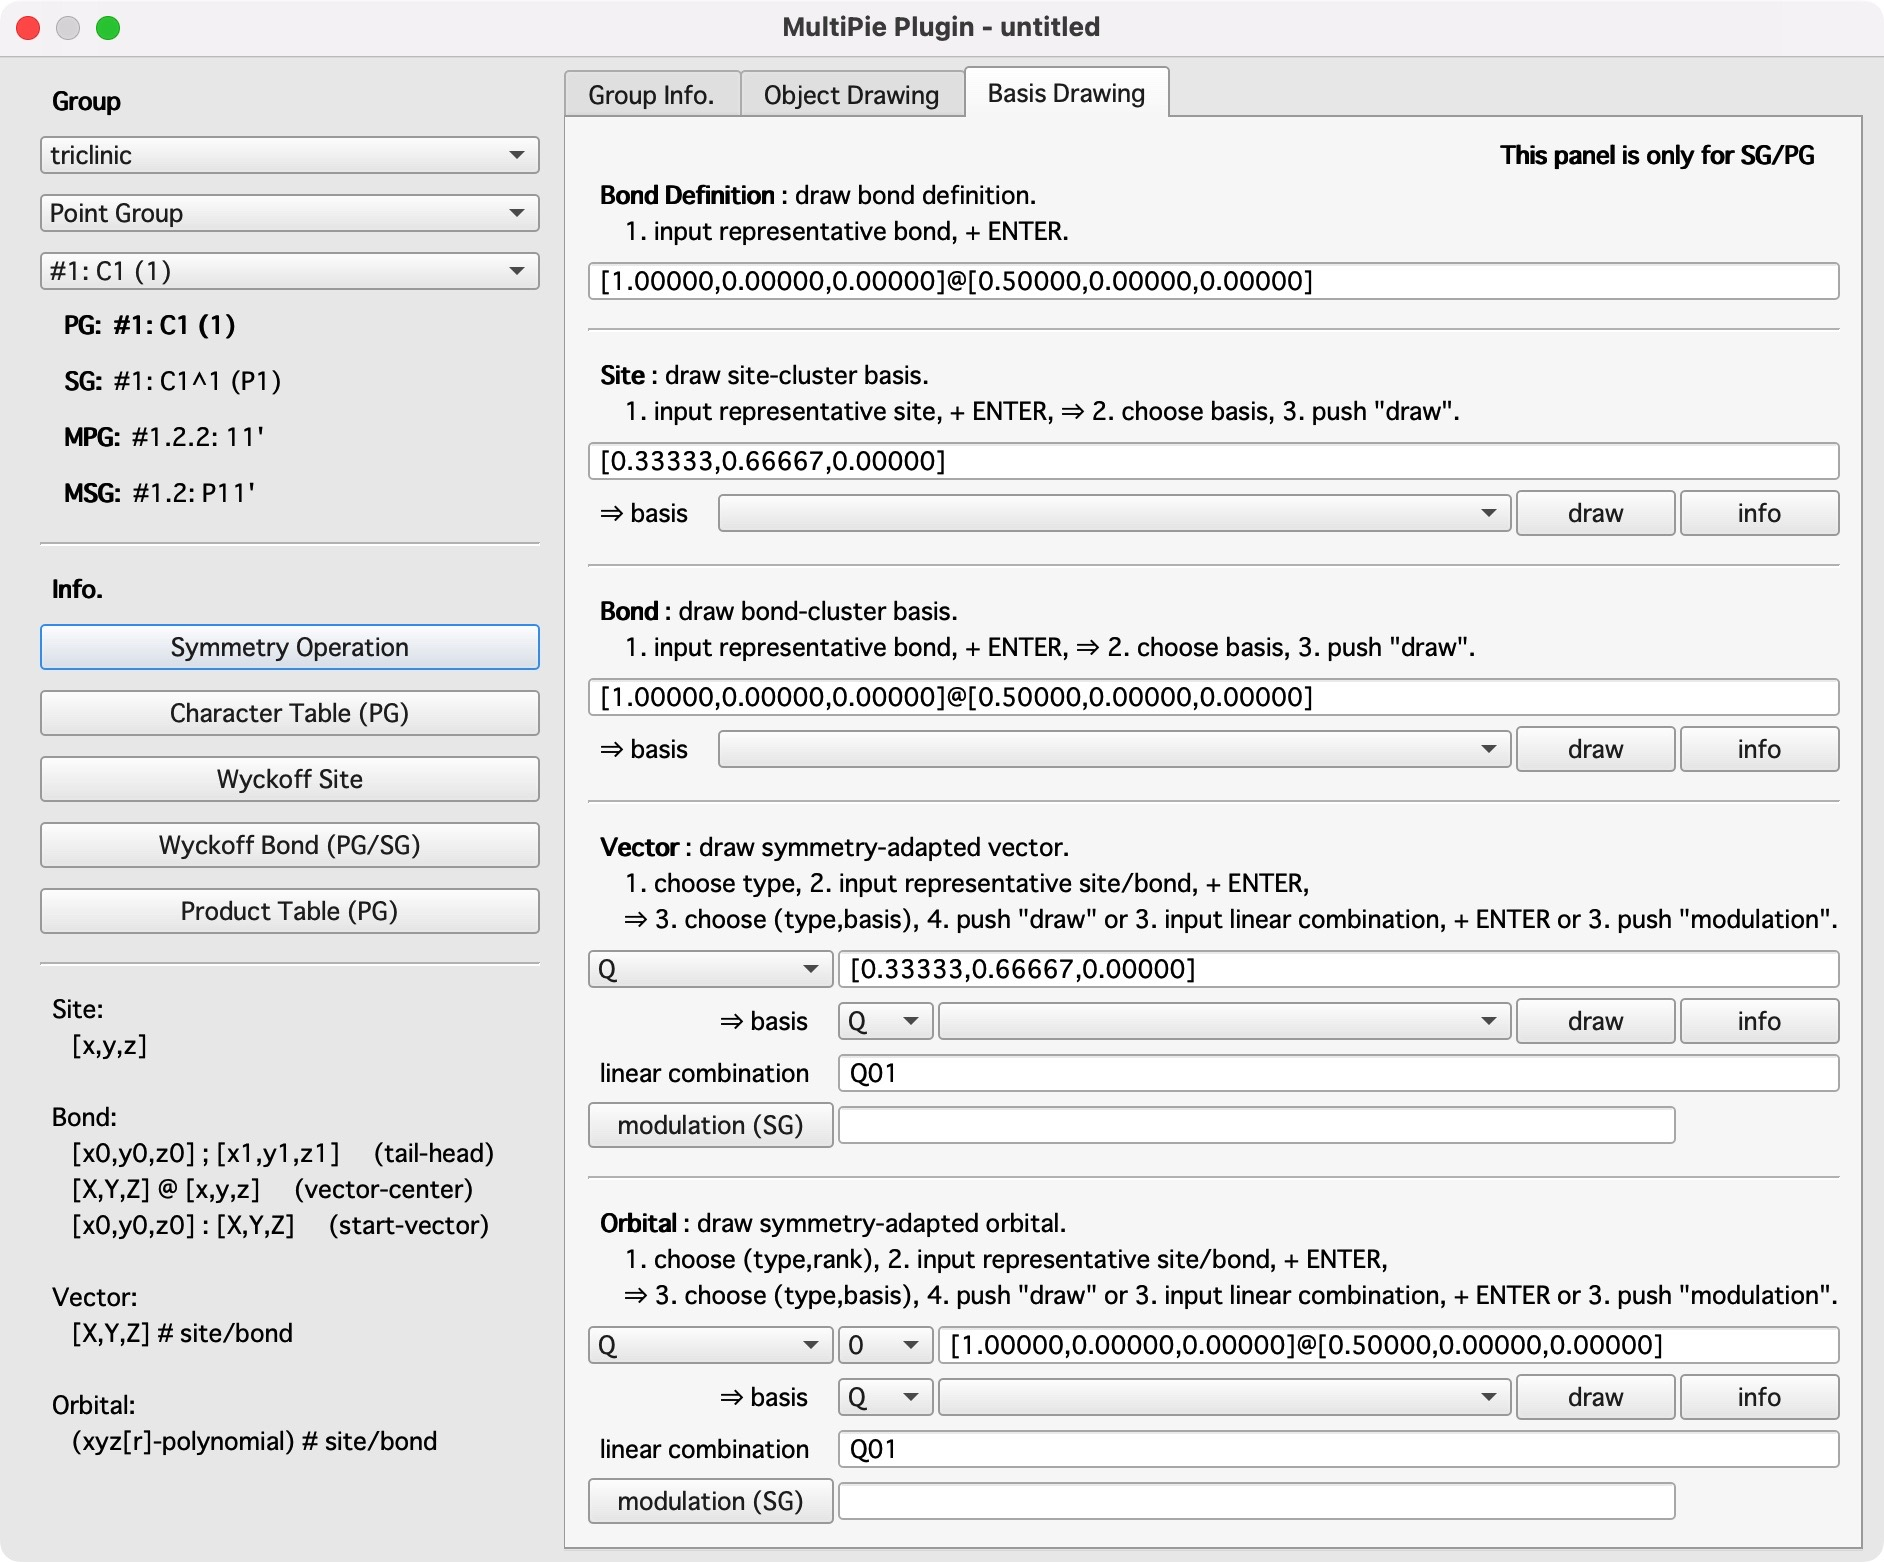
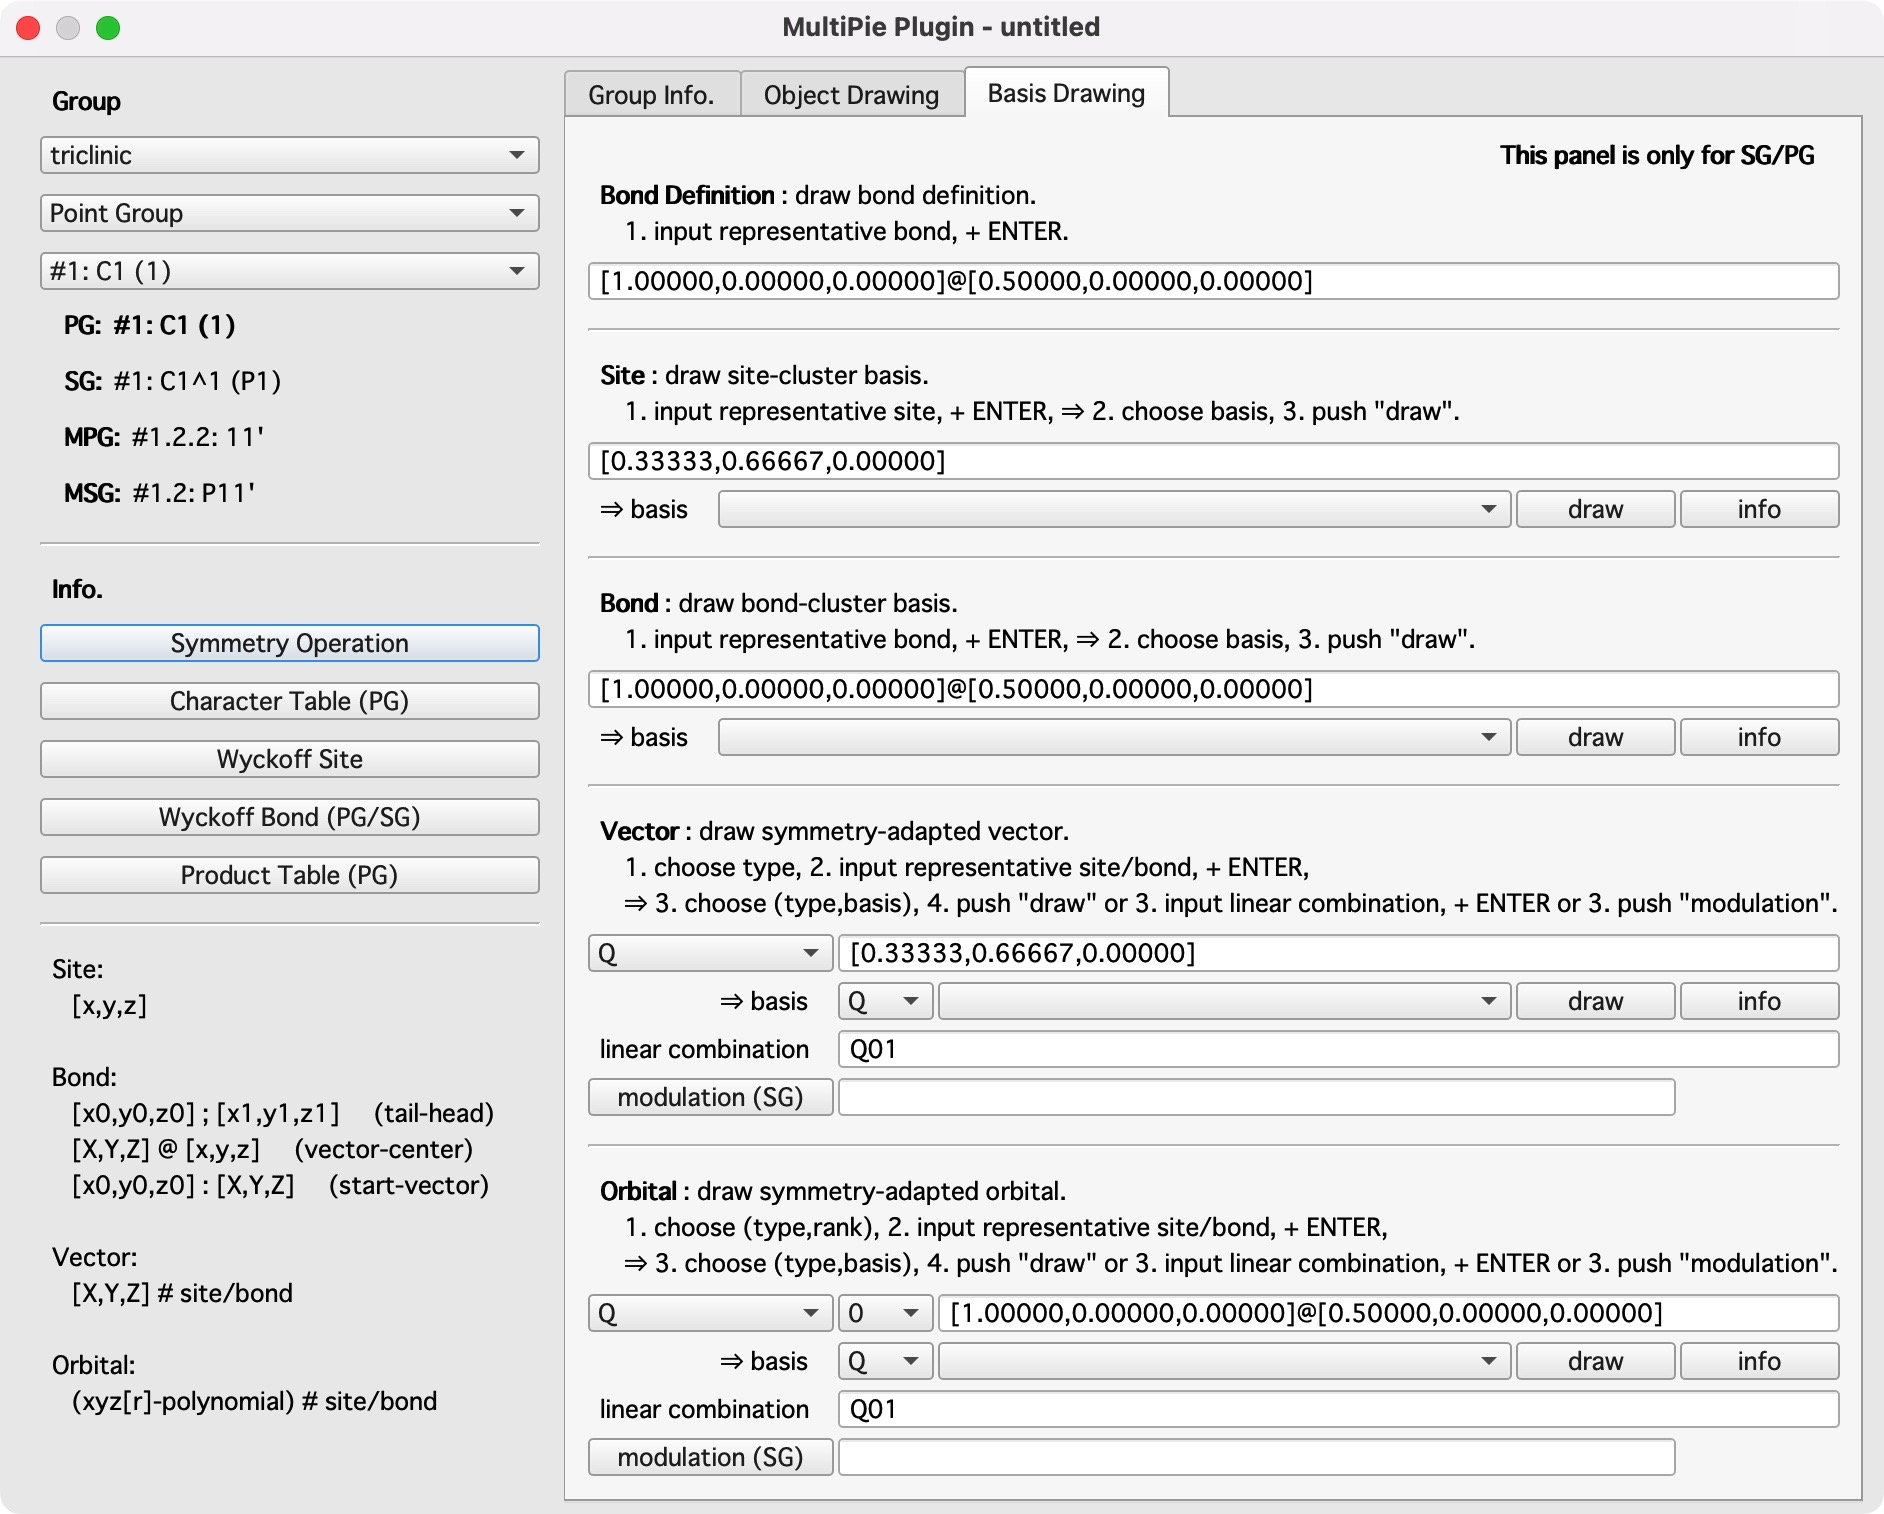
version up

diff --git a/qtdraw/multipie/tab_object.py b/qtdraw/multipie/tab_object.py
@@ -54,7 +54,7 @@ class TabObject(QWidget):
         )
         self.combo_vector_type = Combo(parent, ["Q", "G", "T", "M"])
         self.edit_vector = LineEdit(parent, text="", validator=("vector_site_bond", {"use_var": False}))
-        self.check_vector_av = Check(parent, text="av.")
+        self.check_vector_av = Check(parent, text="average")
         self.check_vector_cart = Check(parent, text="cartesian")
 
         panel3 = QWidget(parent)
@@ -72,7 +72,7 @@ class TabObject(QWidget):
         )
         self.combo_orbital_type = Combo(parent, ["Q", "G", "T", "M"])
         self.edit_orbital = LineEdit(parent, text="", validator=("orbital_site_bond", {"use_var": False}))
-        self.check_orbital_av = Check(parent, text="av.")
+        self.check_orbital_av = Check(parent, text="average")
 
         panel4 = QWidget(parent)
         layout4 = Layout(panel4)

diff --git a/qtdraw/widget/custom_widget.py b/qtdraw/widget/custom_widget.py
@@ -283,6 +283,9 @@ class Button(QPushButton):
         font.setBold(bold)
         self.setFont(font)
 
+        total_height = size * 1.6
+        self.setFixedHeight(total_height)
+
 
 # ==================================================
 class Combo(QComboBox):
@@ -316,7 +319,7 @@ class Combo(QComboBox):
         if init is not None:
             self.setCurrentText(init)
 
-        total_height = self.font().pointSize() * 1.6
+        total_height = size * 1.6
         self.setFixedHeight(total_height)
 
     # ==================================================
@@ -432,6 +435,9 @@ class Check(QCheckBox):
         font.setPointSize(size)
         font.setBold(bold)
         self.setFont(font)
+
+        total_height = size * 1.6
+        self.setFixedHeight(total_height)
 
     # ==================================================
     def is_checked(self):

diff --git a/qtdraw/core/qtdraw_info.py b/qtdraw/core/qtdraw_info.py
@@ -1,4 +1,4 @@
-__version__ = "3.0.6"
+__version__ = "3.0.7"
 __date__ = "2021 -"
 __author__ = "Hiroaki Kusunose"
 
